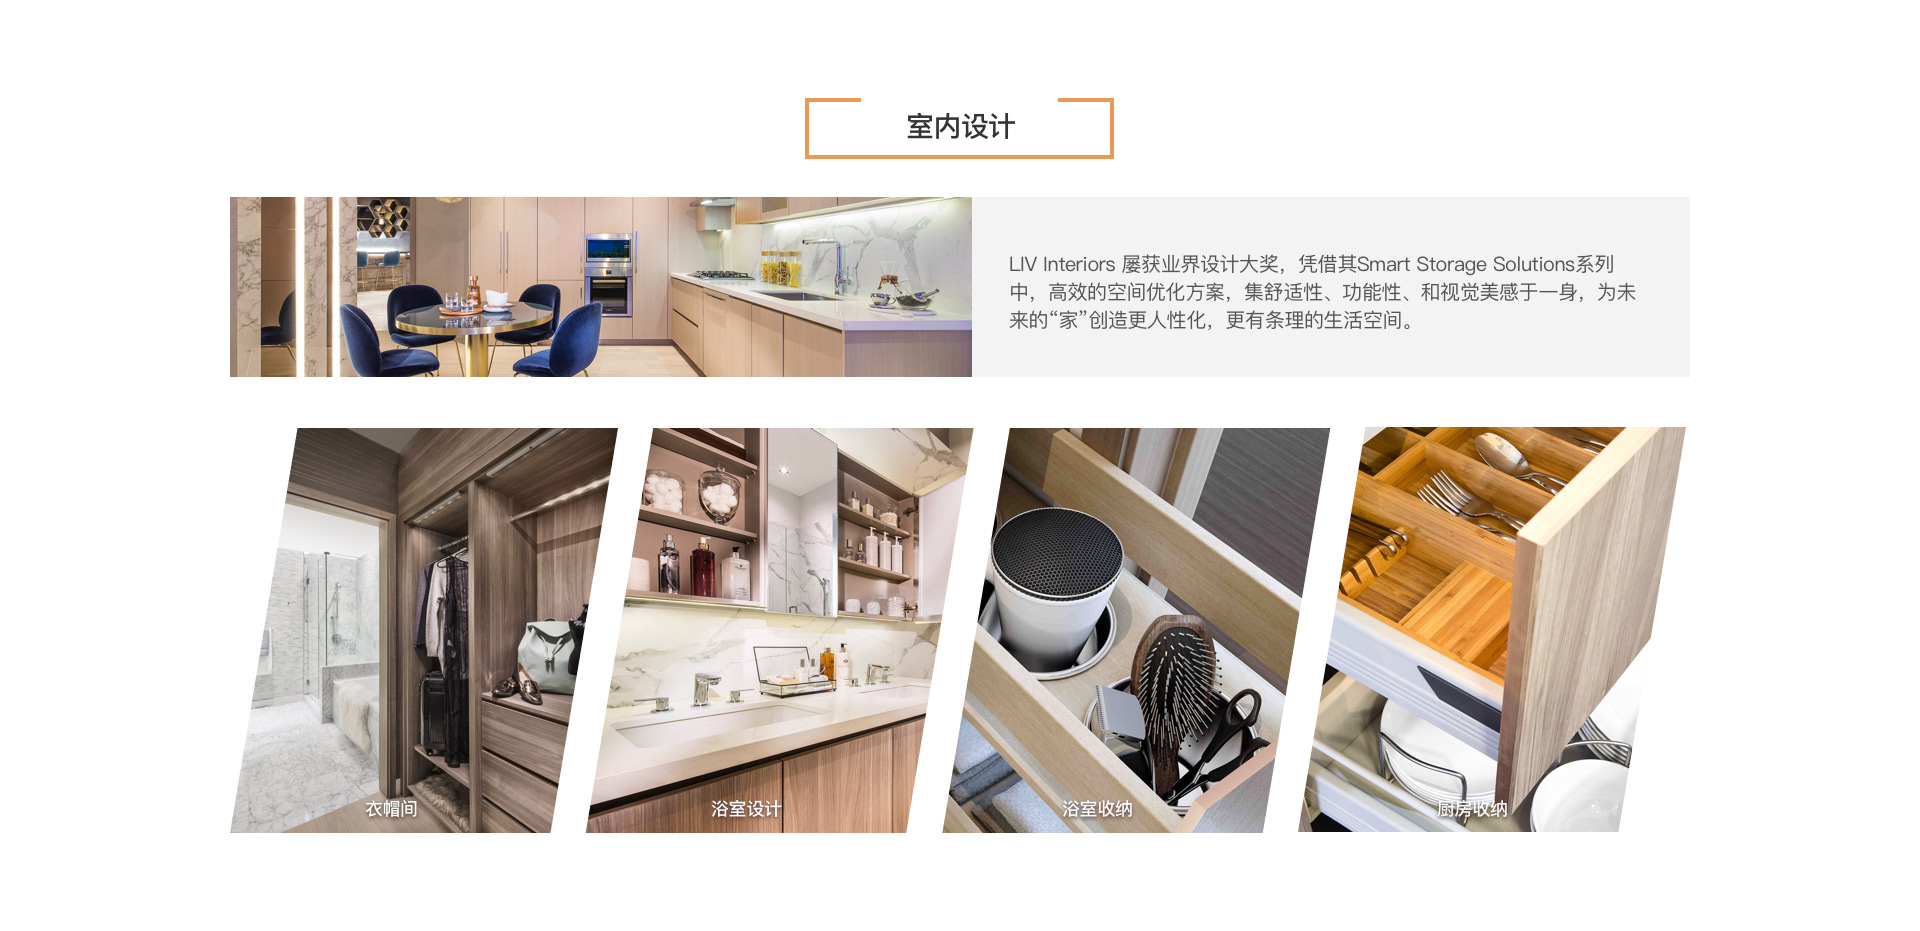
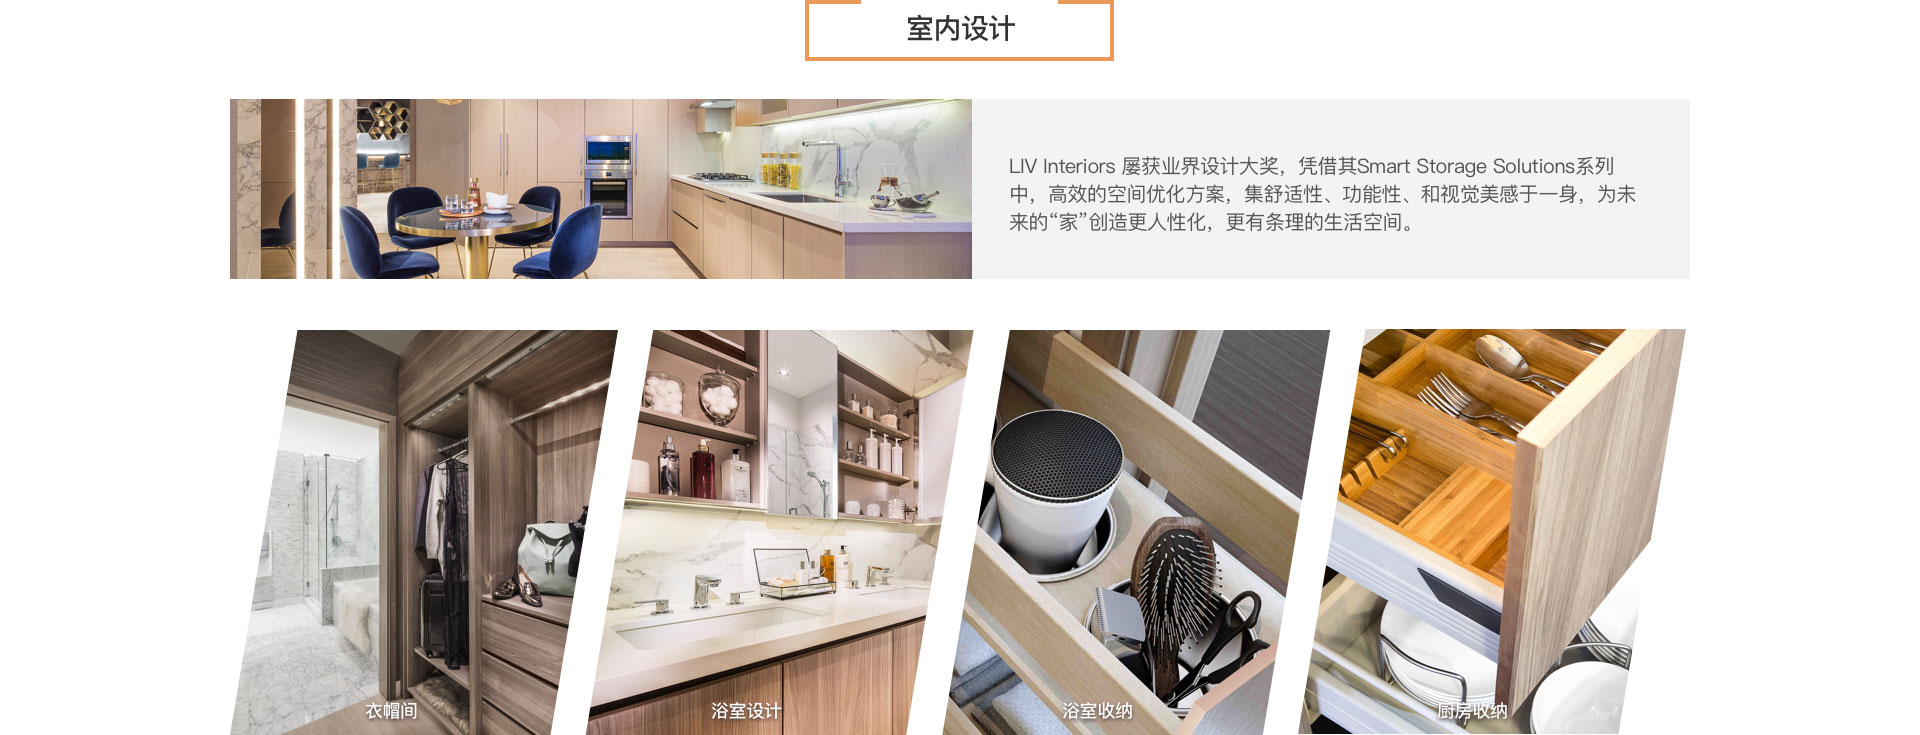
fixed subject

diff --git a/galleria/styles/styles.css b/galleria/styles/styles.css
@@ -2,11 +2,13 @@
 .banner {
     position: relative;min-width: 1460px;
 }
+.bannerimg {background: url('../images/banner.jpg') no-repeat center center;
+    height: 600px;}
 
-.bj {min-width: 1460px;}
+.bj {min-width: 1460px;margin-top: 100px;}
 .bj1 {
     background: url('../images/bj1.jpg') no-repeat center center;
-    height: 1149px;
+    height: 942px;
 }
 
 .bj2 {
@@ -16,22 +18,22 @@
 
 .bj3 {
     background: url('../images/bj3.jpg') no-repeat center center;
-    height: 931px;
+    height: 735px;
 }
 
 .bj4 {
     background: url('../images/bj4.jpg') no-repeat center center;
-    height: 524px;
+    height: 431px;
 }
 
 .bj5 {
     background: url('../images/bj5.jpg') no-repeat center center;
-    height: 950px;
+    height: 860px;
 }
 
 .bj6 {
     background: url('../images/bj6.jpg') no-repeat center center;
-    height: 884px;
+    height: 885px;
 }
 
 .bottom {
@@ -57,6 +59,7 @@
     margin: 0 auto;
     padding-top: 20px;
 }
+.small {min-width: 1200px;}
 
 .menu a {
     width: 63px;
@@ -186,3 +189,5 @@
 
 .bottombanner {position: fixed;bottom: 0;left: 0;z-index:100;background: url('../images/banner2.jpg') no-repeat center center;height: 56px;width: 100%;
 cursor: pointer;}
+.menu-box .small {width: 1200px;min-width:1200px;}
+.small {min-width:1200px;}

diff --git a/galleria/scripts/scripts.js b/galleria/scripts/scripts.js
@@ -2,8 +2,28 @@ $(function(){
 
     submitinfo();
     scrollbottom();
+    sizecheck();
+    
+    
+    window.onresize=function(){  
+        sizecheck()
+        
+   }  
     
 })
+
+function sizecheck(){
+    var winWidth = window.innerWidth;
+    if(winWidth<1460){
+        $('.bj').addClass('small');
+        $('.banner').addClass('small');
+        $('.menucon').addClass('small');
+    }else{
+        $('.bj').removeClass('small');
+        $('.banner').removeClass('small');
+        $('.menucon').removeClass('small');
+    }
+}
 
 function submitinfo(){
     $('.gobtn').on('click',function(){

diff --git a/galleria/index.html b/galleria/index.html
@@ -14,7 +14,7 @@
 <body>
     <div class="yahei subject">
         <div class="banner">
-            <img class="bannerpic vm g10" src="./images/banner.jpg" alt="">
+            <div class="bannerimg"></div>
             <div class="menu-box">
                 <div class="menucon clearfix">
                     <a class="logopic fl" href=""><img class="g10 vm" src="./images/logo3.png" alt=""></a>
